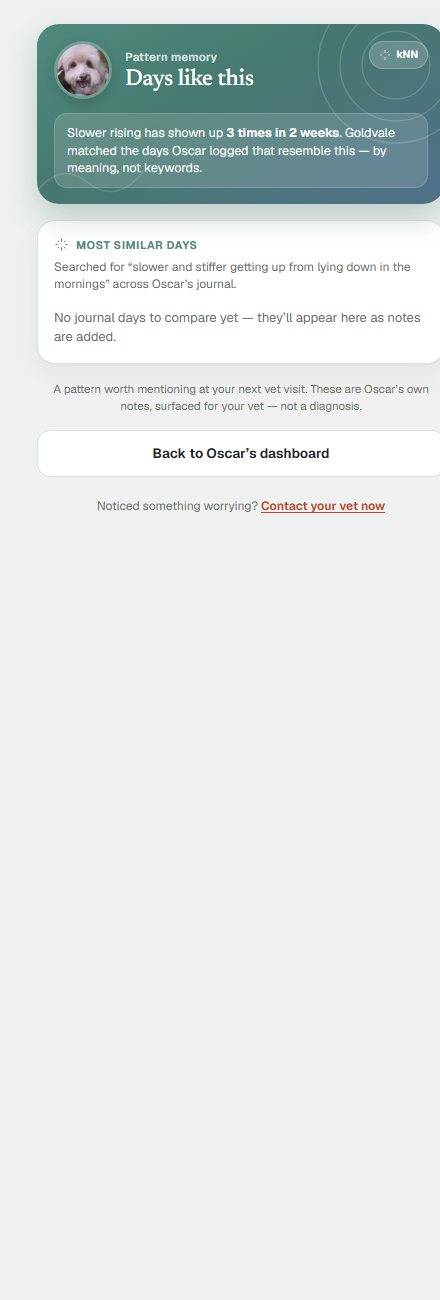
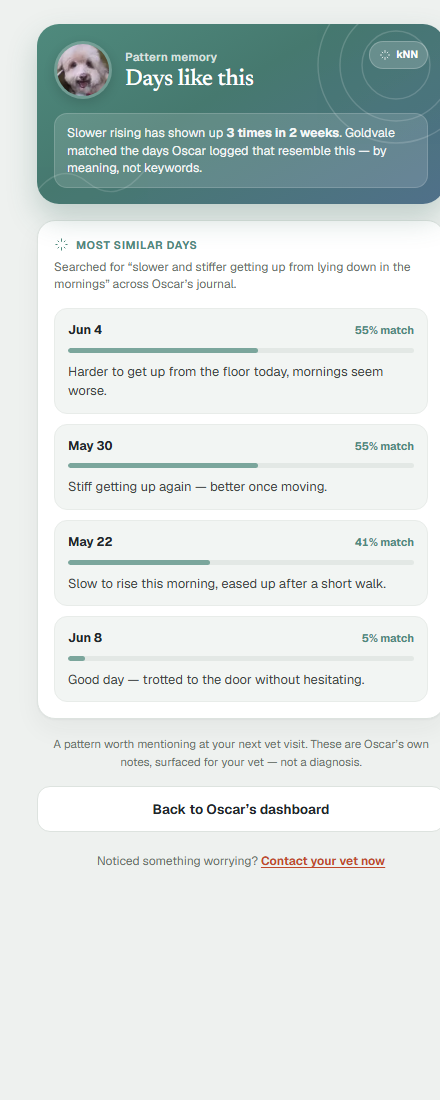
Fix the empty semantic-recall demo + finish the recovery/rehab naming
Two finer-detail fixes from a screenshot sweep:

1. pgvector recall was silently empty. Oscar's 4 seeded journal entries had NO
   embeddings (the seed left them null "until Bedrock keys land", and that backfill
   never ran), so "Days like this" showed "No journal days to compare yet" — the
   flagship AWS-database feature, blank. Embedded the live vectors; the kNN now ranks
   correctly (the three stiffness notes 55/55/41%, the "good day" note 5% — by meaning,
   not keywords). Made scripts/seed-demo-pet.ts embed its journal + mobility vectors
   inline (best-effort, still seeds if Bedrock is down) so a reseed can never leave
   recall empty again — validated by a full reseed.

2. Dashboard "Recovery plan" card (a phase TIMELINE) collided with "Rehab plan" (the
   exercise list). Renamed the timeline card to "Recovery timeline"; "Rehab plan" now
   unambiguously means the exercises.

Refreshed dashboard/recall screenshots and fixed brief.png (was a 404 — the route is
/brief, not /vet-brief). Green: tsc, lint, build.

diff --git a/scripts/seed-demo-pet.ts b/scripts/seed-demo-pet.ts
@@ -10,16 +10,18 @@
  *   • 7 clean rehab sessions over 18 days → progression nudge fires (question)
  *   • "slower rising" flagged on 3 days in the last ~2.5 weeks → pattern memory
  *   • meds Carprofen 27/28 · Gabapentin 28/28 · Omega-3 25/28
- * Embeddings are left null; backfill once Bedrock keys land.
+ * Journal + mobility vectors are embedded inline (best-effort) so semantic recall is
+ * demo-ready straight from this one script.
  */
-import { eq, sql } from "drizzle-orm";
+import { and, eq, isNull, sql } from "drizzle-orm";
 import { getDb } from "../lib/db/client";
 import {
   owners, pets, exercisePlans, planItems, protocolInstances,
   dailyCheckins, mobilityScoreEvents, exerciseSessionEvents,
   medicationEvents, journalEntries, bcsMcsEvents,
 } from "../lib/db/schema";
-import { crossedMcid } from "../lib/domain/mobility";
+import { bandFor, crossedMcid } from "../lib/domain/mobility";
+import { embedTexts } from "../lib/ai/bedrock";
 import { DEMO_OWNER_EMAIL, OSCAR_PET_ID } from "../lib/data/ids";
 
 const NOW = new Date("2026-06-09T09:00:00Z");
@@ -119,7 +121,7 @@ async function main() {
   );
   await db.insert(medicationEvents).values(medRows);
 
-  // ── pgvector layer: journal entries (text now; embeddings backfilled later) ──
+  // ── pgvector layer: journal entries (embedded just below) ──
   await db.insert(journalEntries).values([
     { petId: OSCAR_PET_ID, recordedAt: daysAgo(18), text: "Slow to rise this morning, eased up after a short walk." },
     { petId: OSCAR_PET_ID, recordedAt: daysAgo(10), text: "Stiff getting up again — better once moving." },
@@ -132,6 +134,33 @@ async function main() {
     { petId: OSCAR_PET_ID, bcs: 5, mcs: "mild loss", recordedAt: daysAgo(30) },
     { petId: OSCAR_PET_ID, bcs: 5, mcs: "mild loss", recordedAt: daysAgo(2) },
   ]);
+
+  // ── embed the pgvector layer so semantic recall (the "days like this" kNN) runs on
+  //    real vectors. Best-effort: the relational demo still seeds if Bedrock is down,
+  //    and scripts/backfill-embeddings.ts can fill the vectors later. ──
+  try {
+    const jrows = await db.select().from(journalEntries)
+      .where(and(eq(journalEntries.petId, OSCAR_PET_ID), isNull(journalEntries.embedding)));
+    if (jrows.length) {
+      const vecs = await embedTexts(jrows.map((j) => j.text));
+      for (let i = 0; i < jrows.length; i++) {
+        await db.update(journalEntries).set({ embedding: vecs[i] }).where(eq(journalEntries.id, jrows[i].id));
+      }
+    }
+    const srows = await db.select().from(mobilityScoreEvents)
+      .where(and(eq(mobilityScoreEvents.petId, OSCAR_PET_ID), isNull(mobilityScoreEvents.embedding)));
+    if (srows.length) {
+      const texts = srows.map((s) =>
+        `GenPup-M mobility total ${Number(s.totalScore)} of 108, ${bandFor(Number(s.totalScore))} band, recorded ${s.recordedAt.toISOString().slice(0, 10)}.`);
+      const vecs = await embedTexts(texts);
+      for (let i = 0; i < srows.length; i++) {
+        await db.update(mobilityScoreEvents).set({ embedding: vecs[i] }).where(eq(mobilityScoreEvents.id, srows[i].id));
+      }
+    }
+    console.log(`✓ Embedded ${jrows.length} journal + ${srows.length} mobility vectors`);
+  } catch (e) {
+    console.warn("⚠ Embedding skipped (Bedrock unreachable) — run scripts/backfill-embeddings.ts later:", (e as Error).message);
+  }
 
   // ── analytics: refresh the materialized views so reads see the new history ──
   await db.execute(sql`REFRESH MATERIALIZED VIEW rolling_baseline_mv`);

diff --git a/components/dashboard/DashboardScreen.tsx b/components/dashboard/DashboardScreen.tsx
@@ -172,7 +172,7 @@ function PatternCard({ pattern, href }: { pattern: PatternMemory; href: string }
 function RecoveryCard({ phases, protocolLabel, exercisesHref }: { phases: RecoveryPhase[]; protocolLabel: string; exercisesHref: string }) {
   return (
     <Card>
-      <SectionHead icon={Ico.cal({ s: 17, c: A.plum.c })} accent={A.plum} title="Recovery plan" hint={protocolLabel} />
+      <SectionHead icon={Ico.cal({ s: 17, c: A.plum.c })} accent={A.plum} title="Recovery timeline" hint={protocolLabel} />
       <div style={{ position: "relative", paddingLeft: 6 }}>
         {phases.map((p, i) => {
           const isLast = i === phases.length - 1;